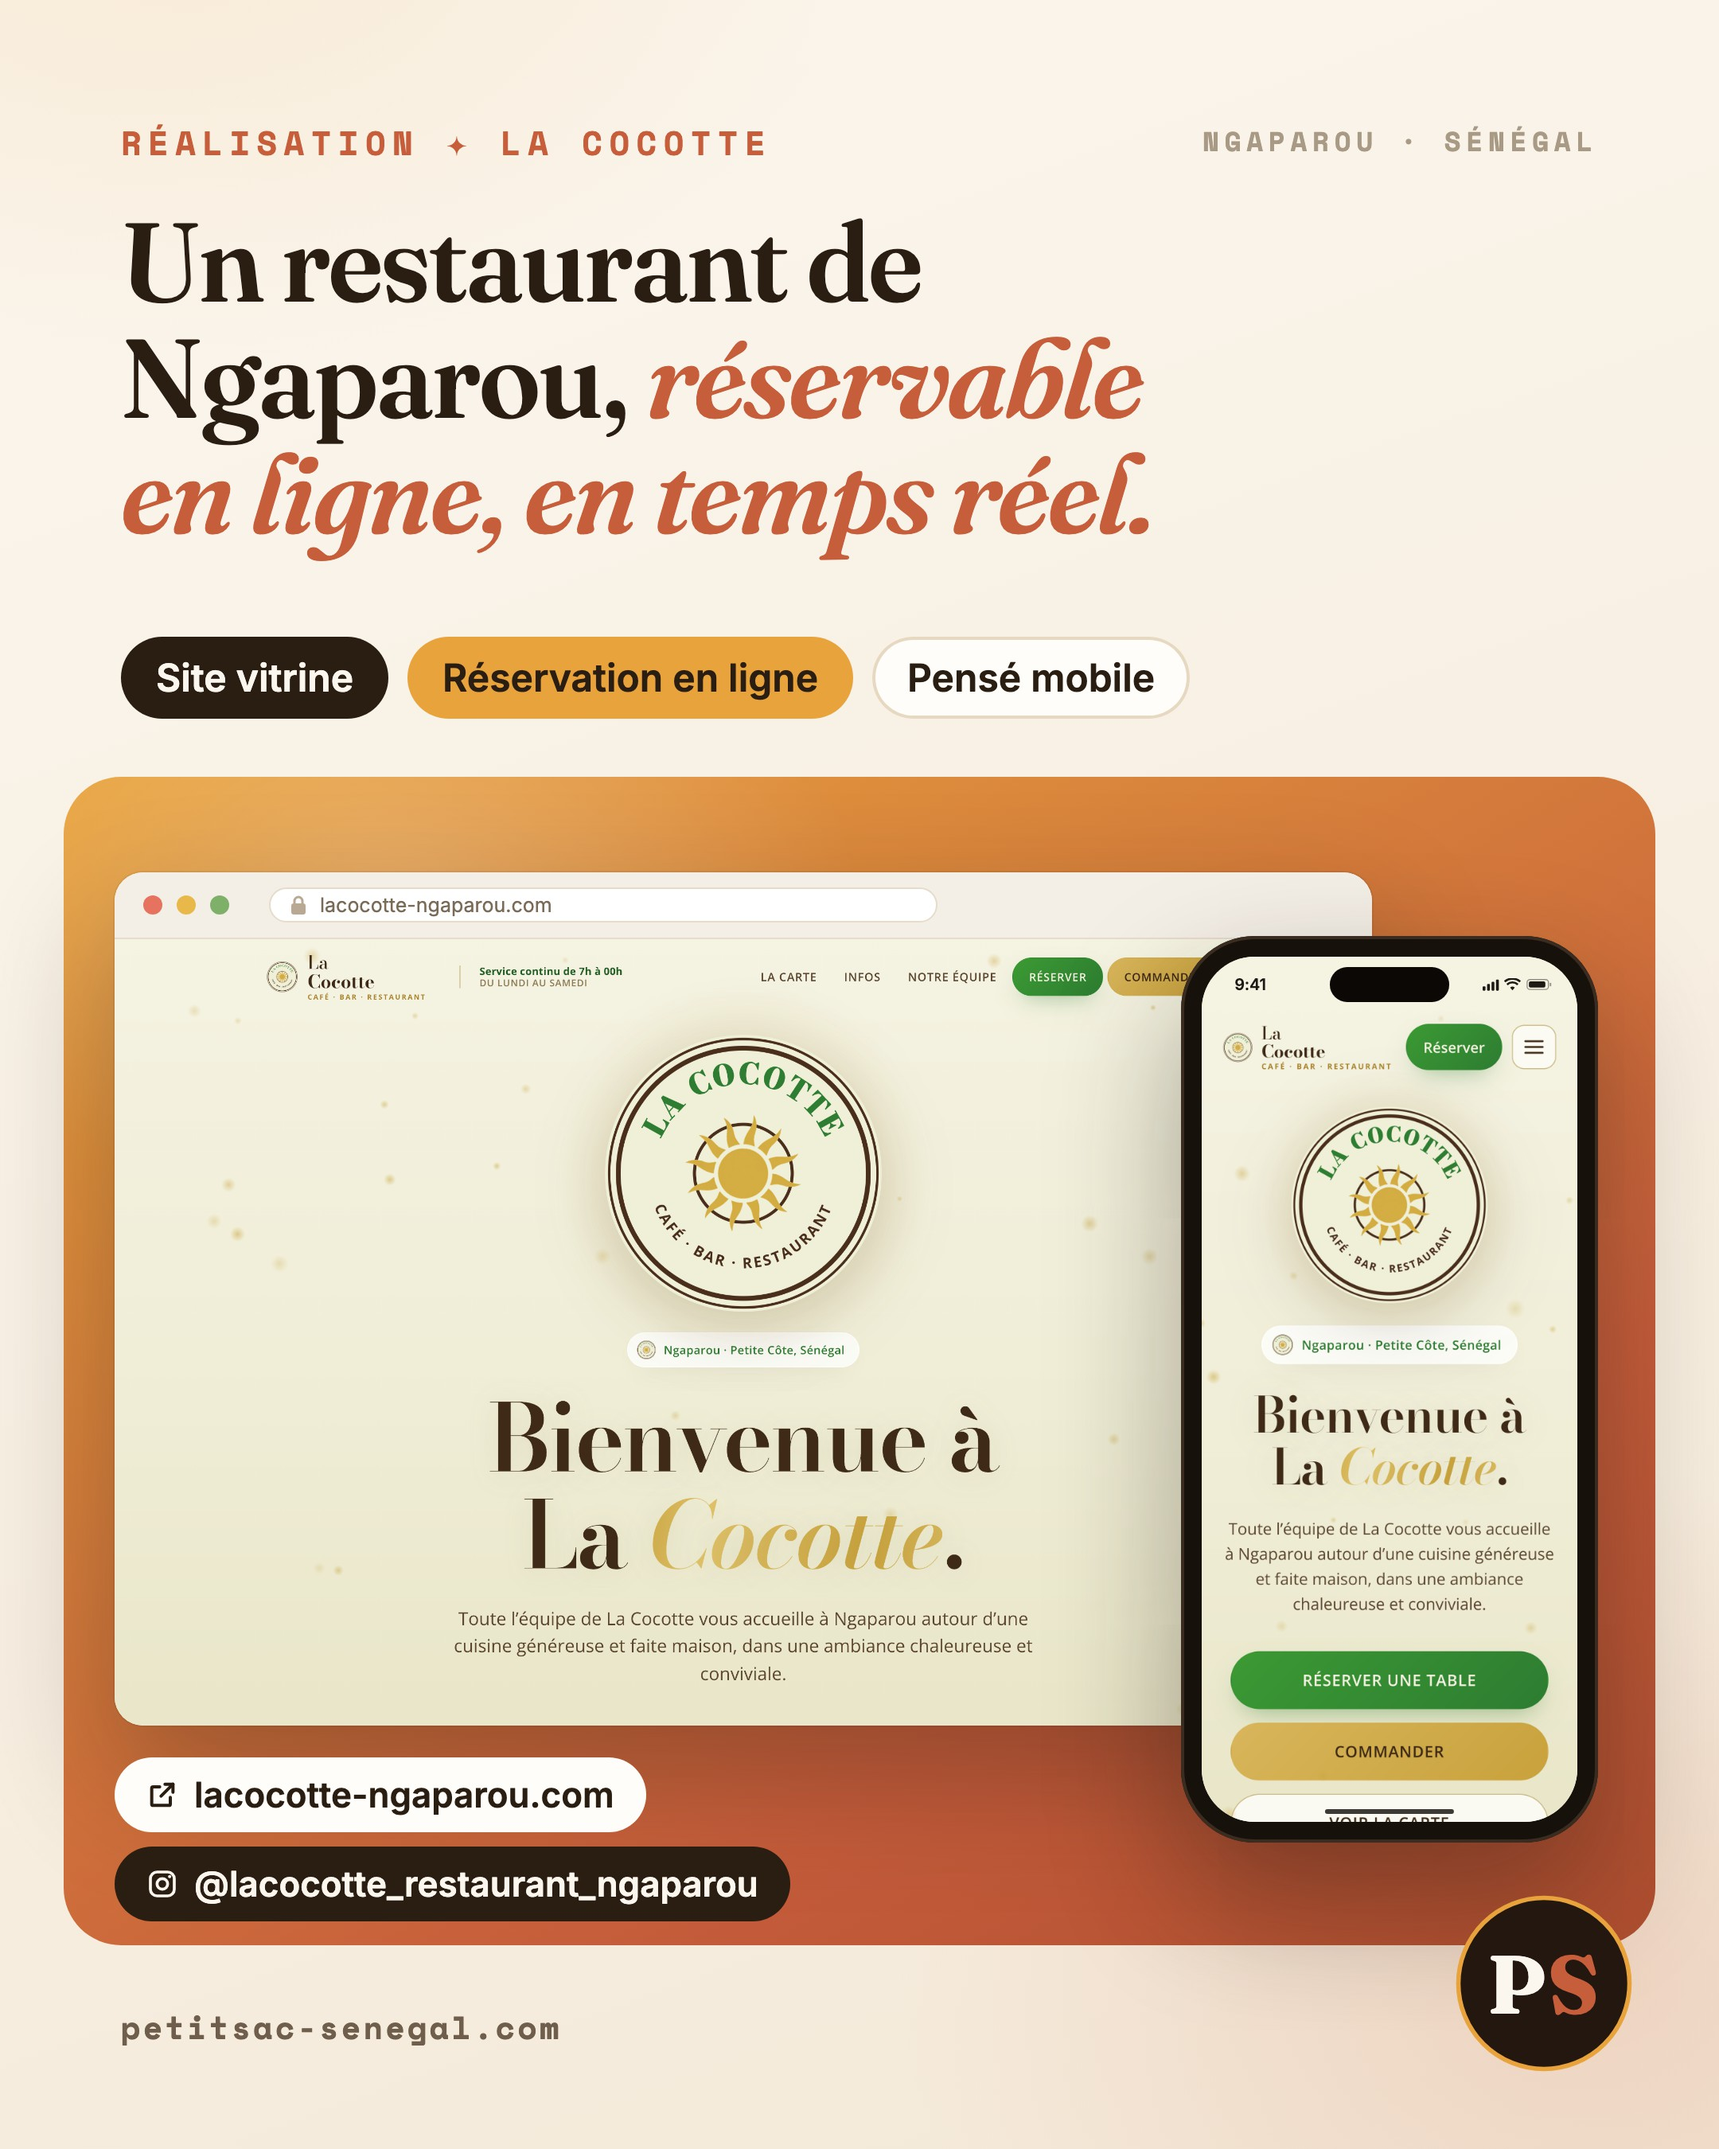
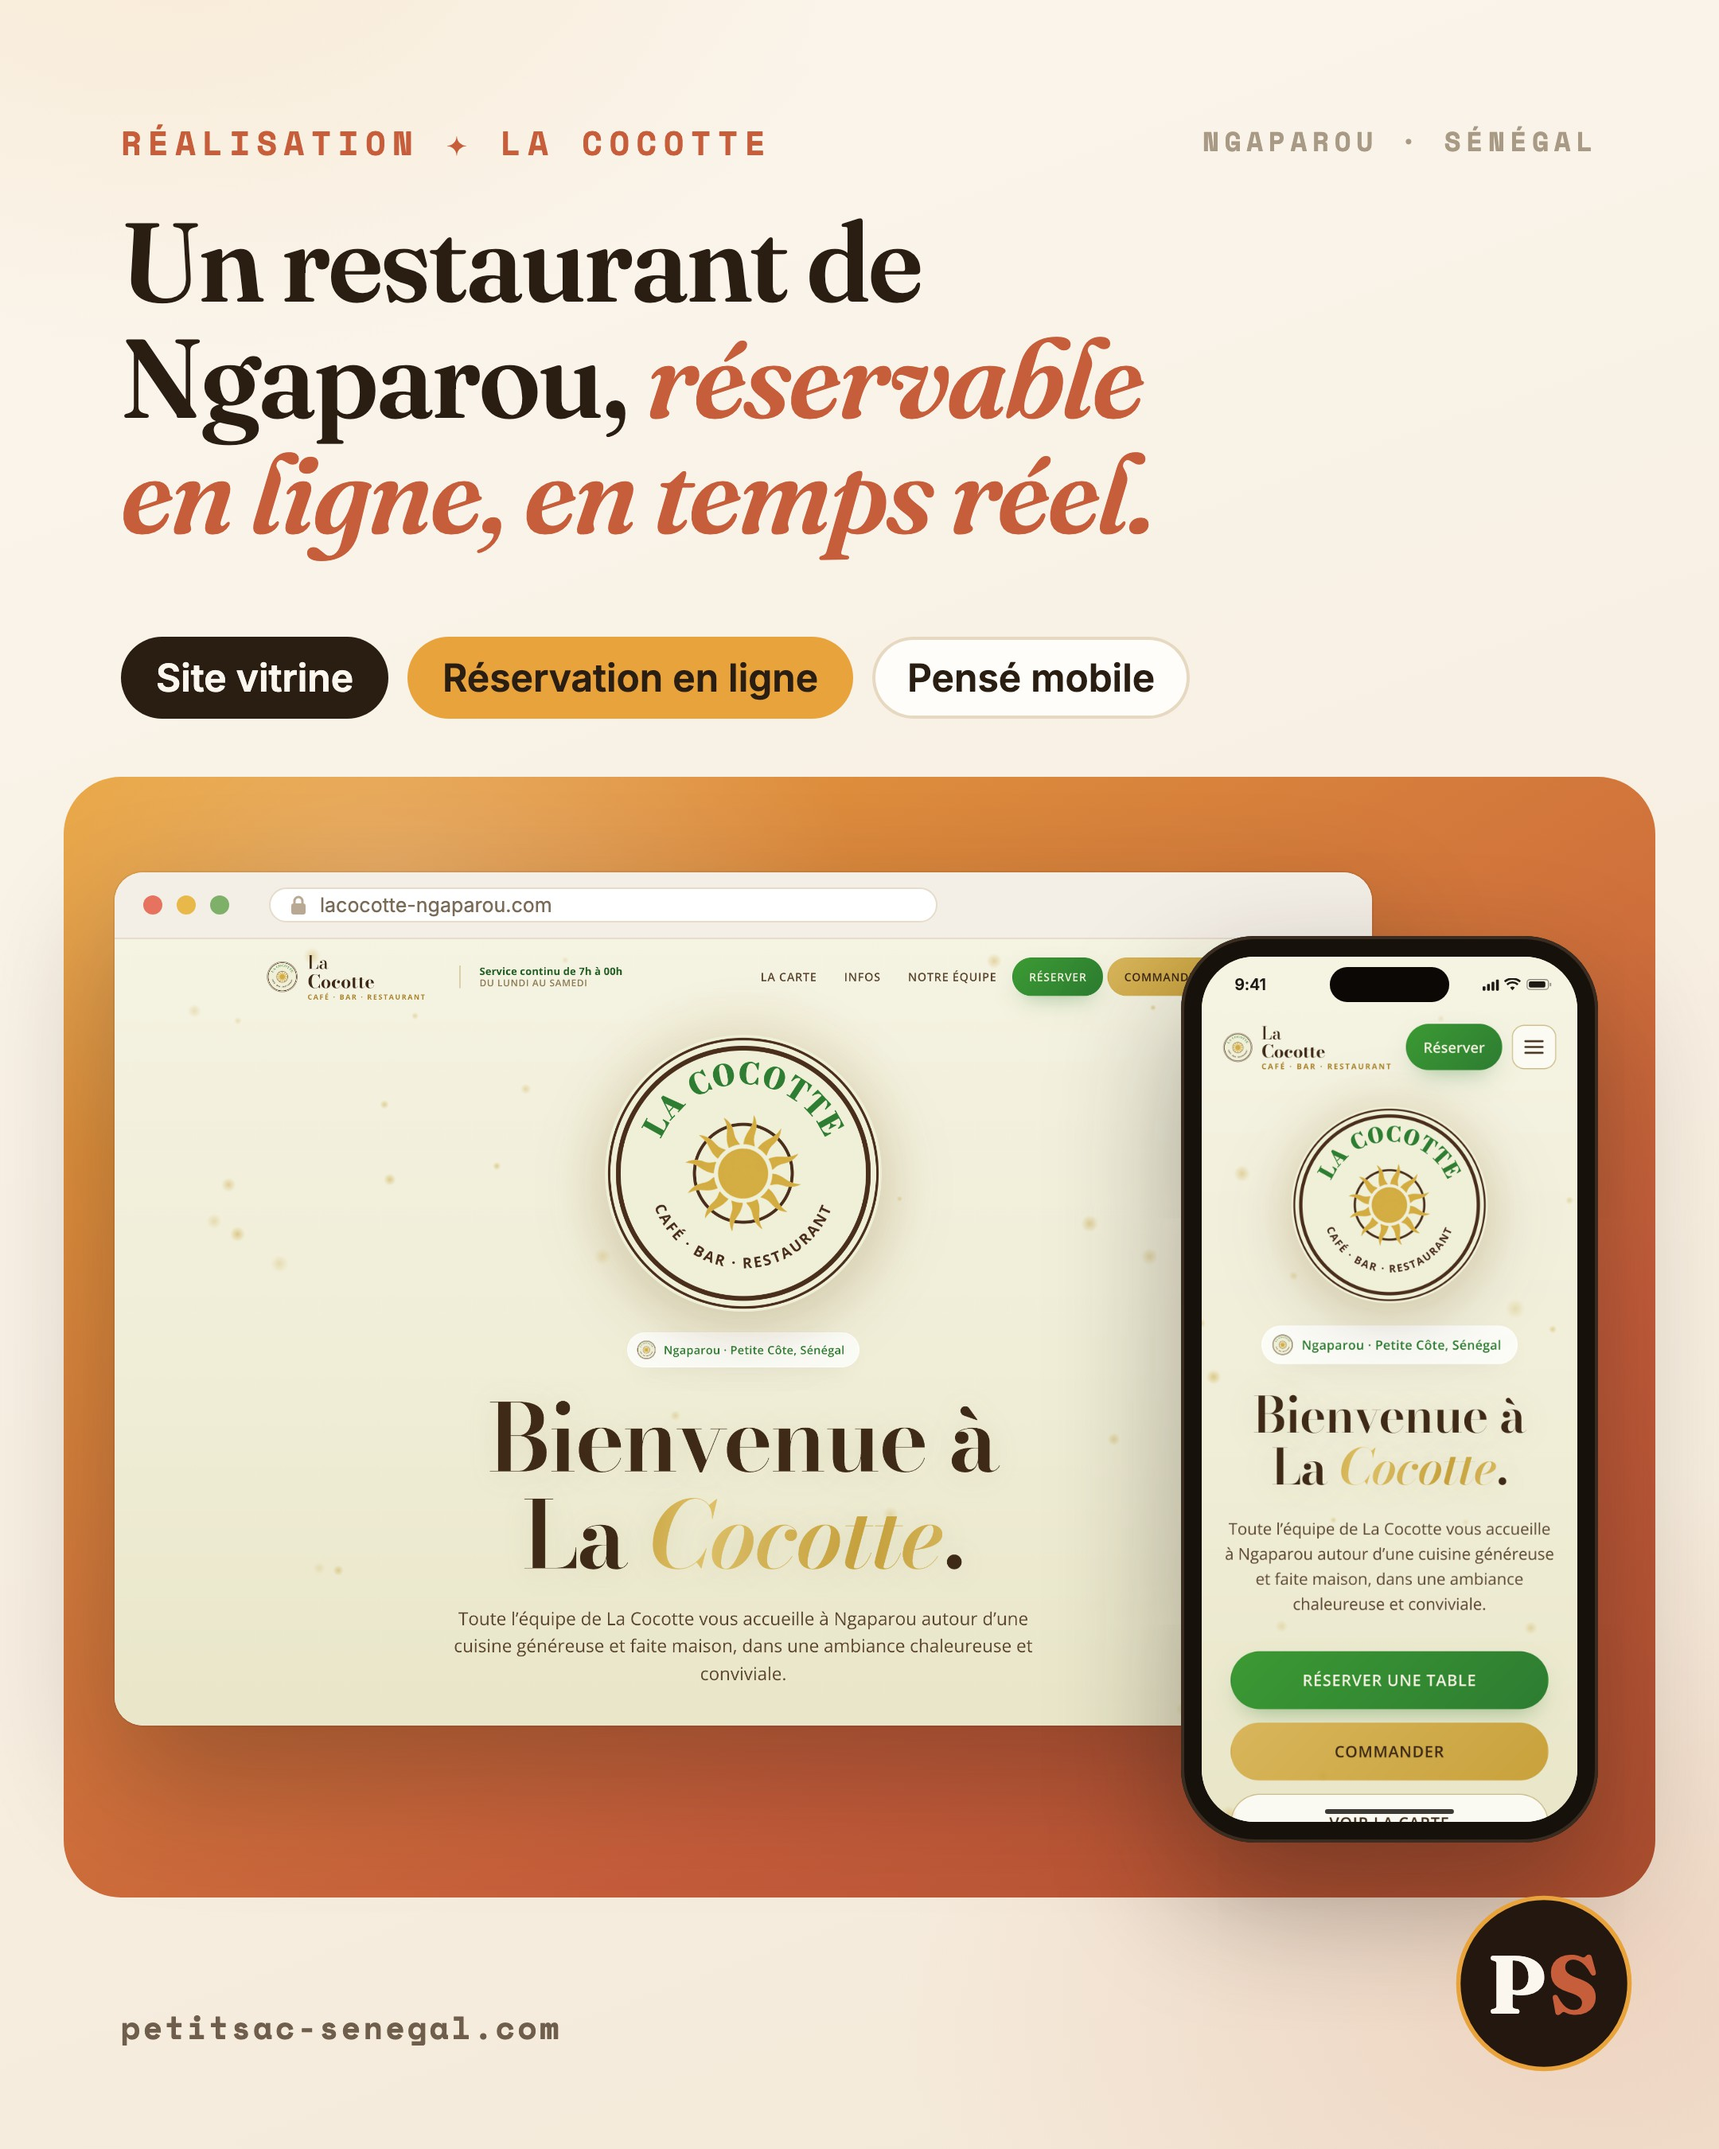
Liens clients en premier commentaire (visuels épurés) + garde-fous commentaire

Changed region(s): [[0.031, 0.8089, 0.8685, 0.9022], [0.9306, 0.8711, 0.9616, 0.9022]]

diff --git a/scripts/publish.py b/scripts/publish.py
@@ -100,6 +100,17 @@ def publish_container(cid):
     return mid, link.get("permalink", "")
 
 
+def token_scopes():
+    r = api("GET", "debug_token", {"input_token": TOKEN, "access_token": TOKEN})
+    return set((r.get("data") or {}).get("scopes") or [])
+
+
+def post_comment(media_id, message):
+    r = api("POST", "%s/comments" % media_id, {"message": message, "access_token": TOKEN})
+    if "error" in r: log("echec commentaire: %s" % r["error"]); return None
+    return r.get("id")
+
+
 def publish_post(post):
     imgs = post.get("images", [])
     caption = post.get("caption", "")
@@ -126,6 +137,7 @@ def publish_post(post):
     if not res: return None
     mid, link = res
     log("PUBLIE media_id=%s %s" % (mid, link))
+    post["_media_id"] = mid
     return link
 
 
@@ -172,16 +184,31 @@ def main():
         err = check_refs.check_url(u.rstrip(".,;:"))
         if err:
             log("ECHEC: lien invalide %s (%s) ; le post reste en file." % (u, err)); sys.exit(1)
-    if post.get("references") and not re.search(r"https?://|@\w", post.get("caption", "")) and not post.get("user_tags"):
+    if post.get("comment"):
+        if "instagram_manage_comments" not in token_scopes():
+            log("ECHEC: ce post doit avoir son lien en commentaire, mais le token n'a pas la permission "
+                "instagram_manage_comments ; publication refusee, le post reste en file."); sys.exit(1)
+        for u in re.findall(r"https?://[^\s)»]+", post["comment"]):
+            err = check_refs.check_url(u.rstrip(".,;:"))
+            if err: log("ECHEC: lien du commentaire invalide %s (%s) ; le post reste en file." % (u, err)); sys.exit(1)
+    if post.get("references") and not re.search(r"https?://|@\w", post.get("caption", "") + " " + post.get("comment", "")) and not post.get("user_tags"):
         log("ECHEC: reference client sans lien verifiable ; le post reste en file."); sys.exit(1)
     link = publish_post(post)
     if link is None:
         log("ECHEC: le post reste en file pour le prochain run."); sys.exit(1)
     if not DRY:
-        published.append({"id": post["id"], "published_at": datetime.datetime.now(datetime.timezone.utc).isoformat(),
-                          "permalink": link if isinstance(link, str) else ""})
-        save(PUBLISHED, published)
+        entry = {"id": post["id"], "published_at": datetime.datetime.now(datetime.timezone.utc).isoformat(),
+                 "permalink": link if isinstance(link, str) else ""}
+        comment_failed = False
+        if post.get("comment"):
+            cid = post_comment(post.get("_media_id"), post["comment"])
+            entry["comment_ok"] = bool(cid)
+            comment_failed = not cid
+            log(("COMMENTAIRE poste (id=%s)" % cid) if cid else "ALERTE: post publie mais commentaire NON poste")
+        published.append(entry)
+        save(PUBLISHED, published)      # toujours journaliser : jamais de doublon
         log("Journalise. Total publies: %d" % len(published))
+        if comment_failed: sys.exit(1)  # run en echec -> e-mail d'alerte GitHub
 
 
 if __name__ == "__main__":

diff --git a/scripts/check_refs.py b/scripts/check_refs.py
@@ -49,7 +49,7 @@ def main():
   for f in FILES:
       if not os.path.exists(f): continue
       for post in json.load(open(f, encoding="utf-8")):
-          cap = post.get("caption", ""); pid = post.get("id"); issues = []
+          cap = post.get("caption", "") + "\n" + post.get("comment", ""); pid = post.get("id"); issues = []
           urls = re.findall(r"https?://[^\s)»]+", cap)
           handles = set(re.findall(r"(?<![\w.])@([A-Za-z0-9_.]{2,30})", cap))
           handles |= {(t if isinstance(t, str) else t["username"]).lstrip("@") for t in post.get("user_tags", [])}
